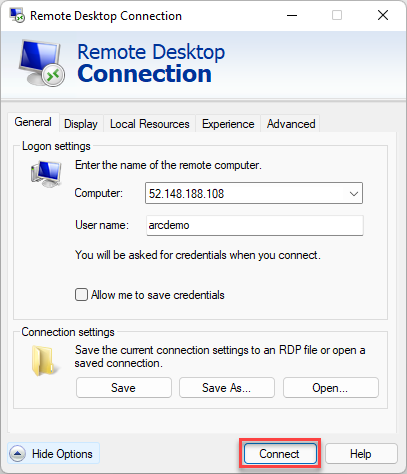
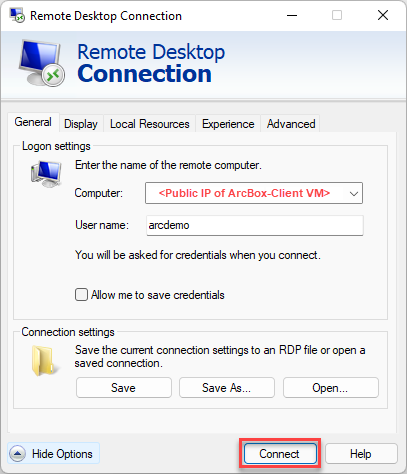
Minor tweaks to a few images and small updates to text

Changed region(s): [[0.3538, 0.384, 0.8256, 0.443]]

diff --git a/docs/azure_arc_jumpstart/azure_arc_servers/levelup/arc_enabled_servers/_index.md b/docs/azure_arc_jumpstart/azure_arc_servers/levelup/arc_enabled_servers/_index.md
@@ -107,11 +107,11 @@ ArcBox must be deployed to one of the following regions:
 
     ![LevelUp ArcBox VM](arcbox-vm.png)
 
-7. Copy the **public ip** by clicking the copy icon to the right of it:
+7. Copy the **Public IP** by clicking the copy icon to the right of it:
 
     ![LevelUp ArcBox Public IP](copy-public-ip.png)
 
-8. Paste the copied public ip into a Remote Desktop window, and click **connect**:
+8. Paste the copied **Public IP** into a Remote Desktop window, and click **Connect**:
 
     ![LevelUp ArcBox RDP](remote-desktop.png)
 
@@ -122,6 +122,10 @@ ArcBox must be deployed to one of the following regions:
 10. Once the scripts have completed, you should have 2 Linux and 2 Windows VM's, which can be found in **Hyper-V Manager** on the desktop:
 
     ![LevelUp ArcBox Hyper-V](hyper-v-manager.png)
+
+11. Back in the Resource Group view, you can see that two of the Hyper-V VM's (CentOS & Win2K19) have already been onboarded to Azure Arc on your behalf:
+
+    ![LevelUp ArcBox Arc Onboarded VMs](onboarded-vms.png)
 
 ## Required Credentials
 
